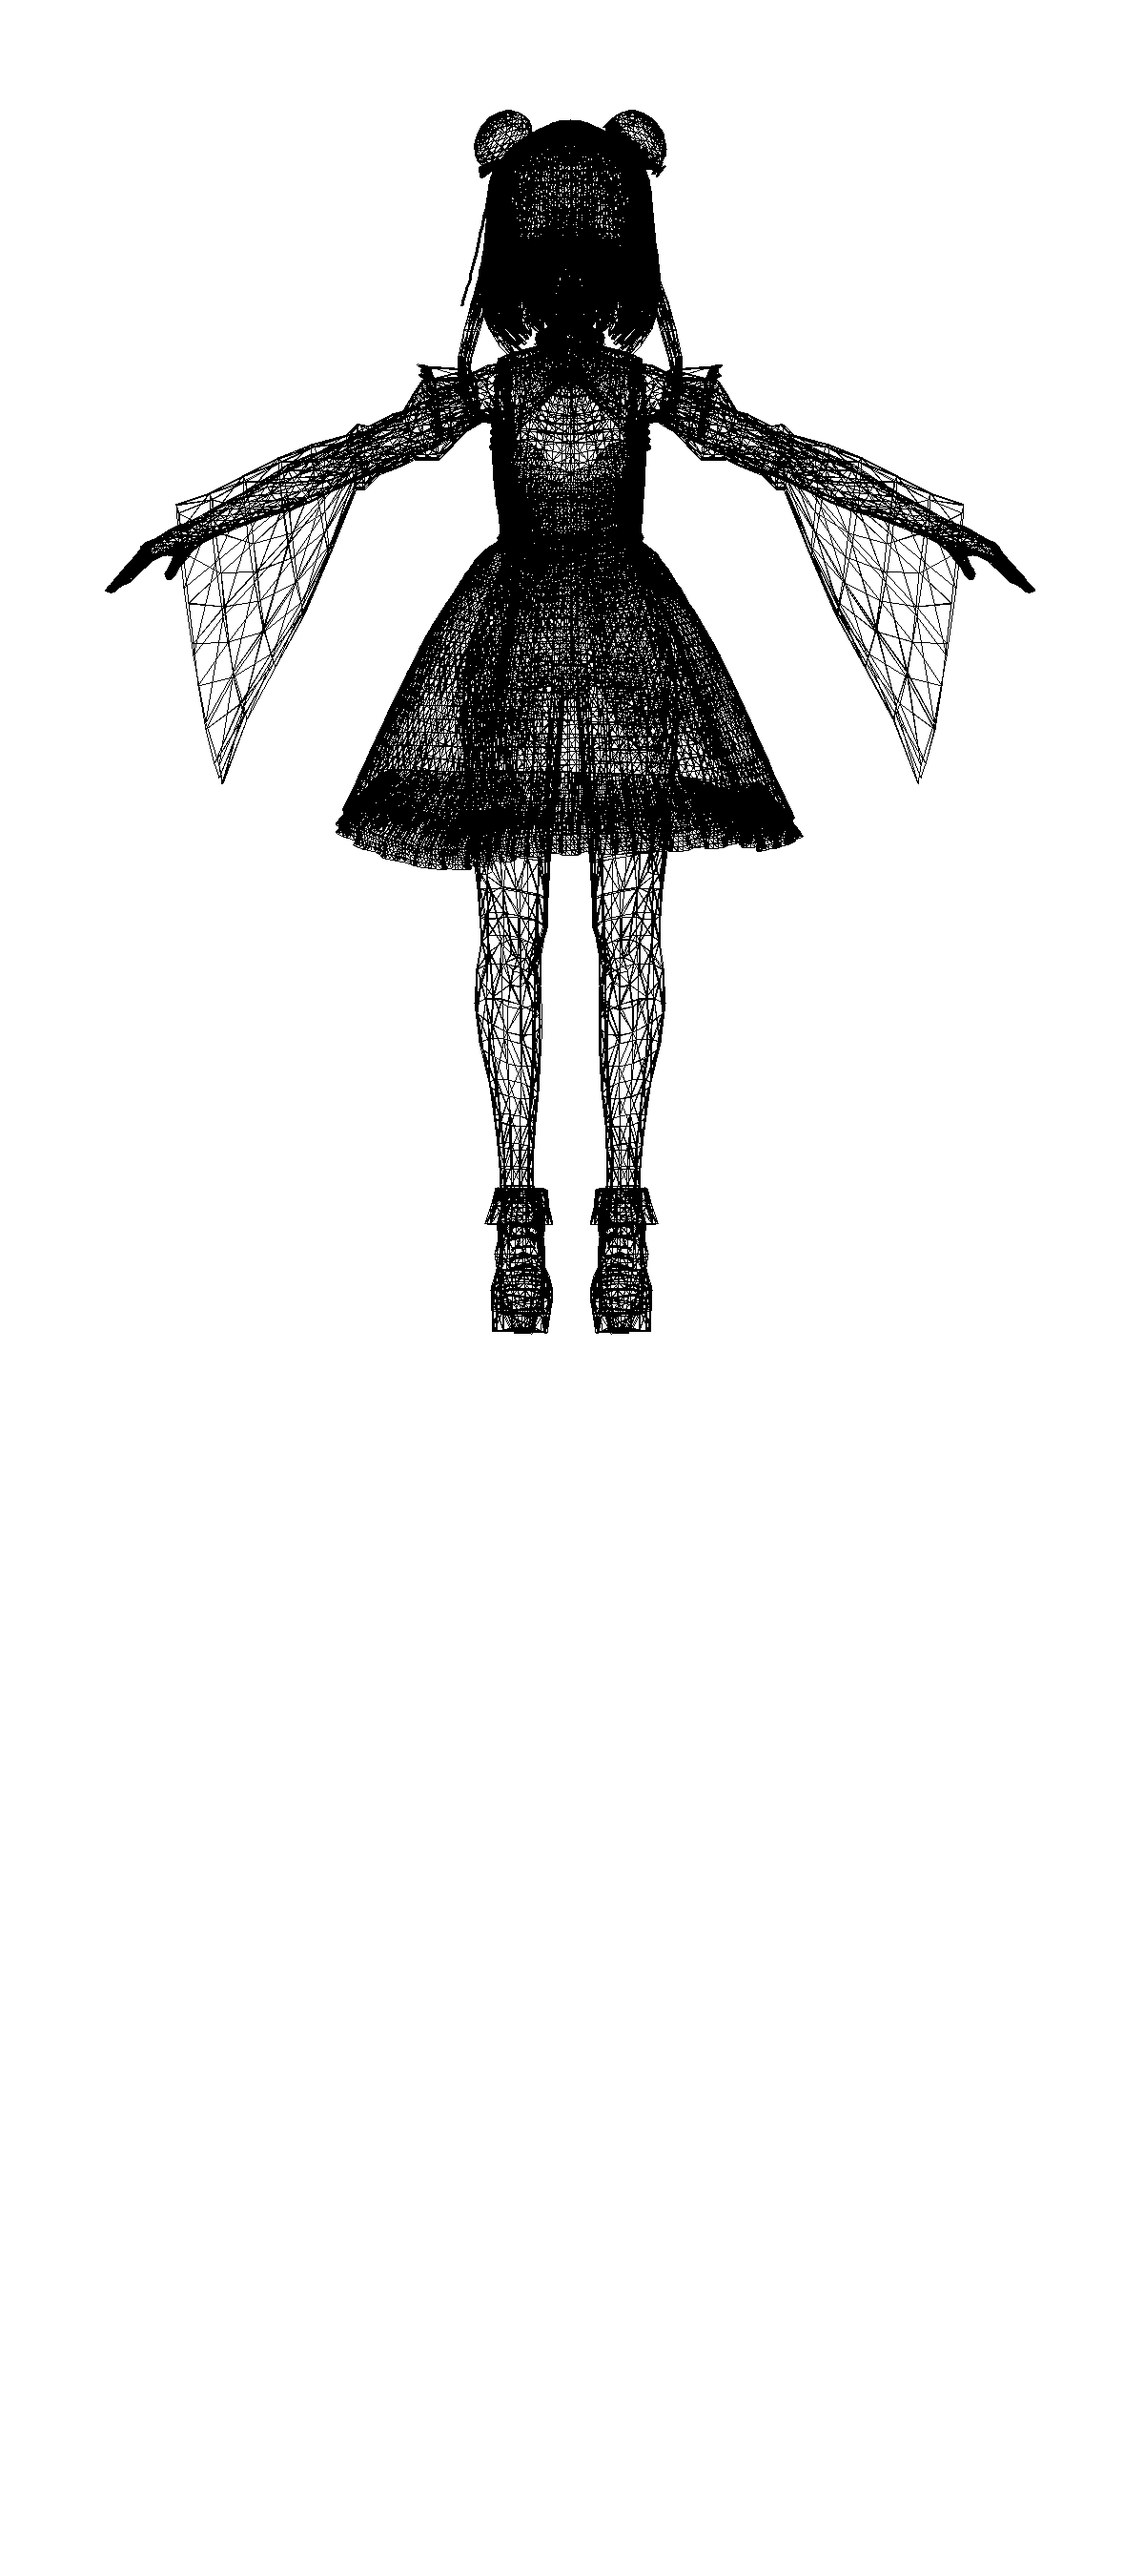
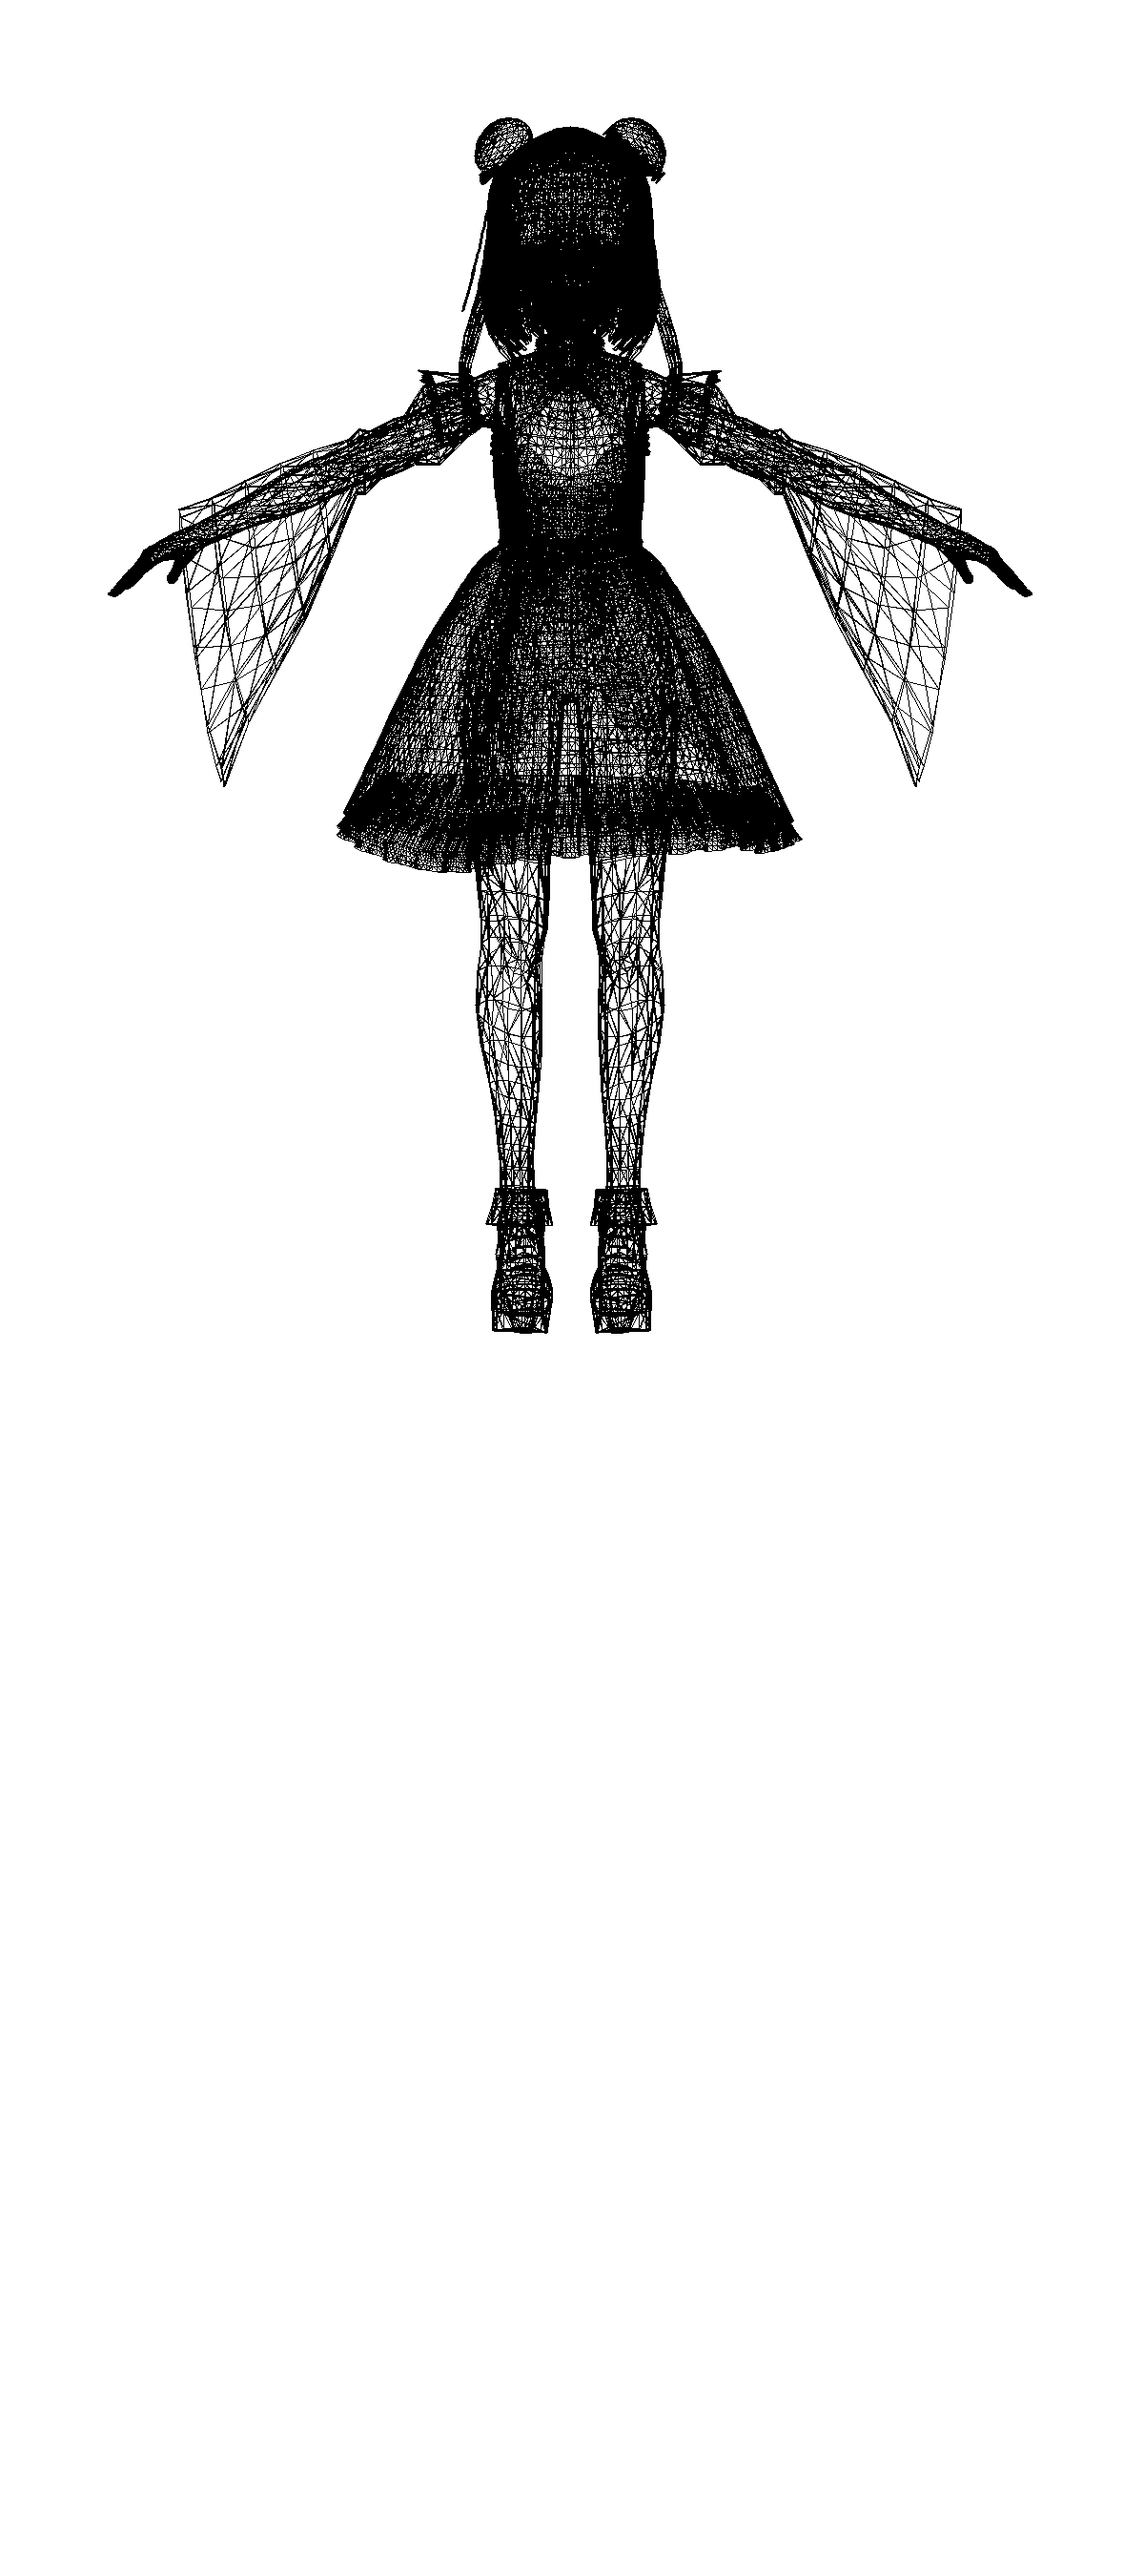
Use the Nix environment

diff --git a/src/utils.py b/src/utils.py
@@ -207,6 +207,9 @@ def DrawShadedTriangle (P0:Point, P1:Point, P2:Point, canva:Canva, color):
                 int(color[2] * b)
             )
             PutPixel(x, y, canva, shaded_color)
+            # canva.array[canva_height - y][x][0] = shaded_color[0]
+            # canva.array[canva_height - y][x][1] = shaded_color[1]
+            # canva.array[canva_height - y][x][2] = shaded_color[2]
 
 def ProjectToCanvas(P:Point, canva:Canva):
     x = P.x * canva.d / P.z
@@ -232,9 +235,9 @@ def DrawWireframeTriangle(
     p1 = copy.deepcopy(P1)
     p2 = copy.deepcopy(P2)
     
-    p0 = shift_location(p0, (0, 0, 5050), 1)
-    p1 = shift_location(p1, (0, 0, 5050), 1)
-    p2 = shift_location(p2, (0, 0, 5050), 1)
+    p0 = shift_location(p0, (0, 0, 5080), 1)
+    p1 = shift_location(p1, (0, 0, 5080), 1)
+    p2 = shift_location(p2, (0, 0, 5080), 1)
     
     p0 = ProjectToCanvas(p0, canva)
     p1 = ProjectToCanvas(p1, canva)
@@ -251,11 +254,16 @@ def load_objs(path:str):
     
     points = []
     tris = []
+    obj_num = 0
     for line in lines:
+        # if(line[0] == 'o'):
+        #     if(obj_num == limit):
+        #         break
+        #     else:
+        #         obj_num += 1
         if(line[0] == "v" and line[1] == ' '):
             splited = line.split(' ')
-            if '' in splited:
-                splited.remove('')
+            # splited.remove('')
             point = Point(float(splited[1]), float(splited[2]), float(splited[3]), 1.0)
             points.append(point)
         elif(line[0] == 'f'):
@@ -266,6 +274,8 @@ def load_objs(path:str):
                 points[int(splited[2].split('/')[0]) - 1], 
                 points[int(splited[3].split('/')[0]) - 1])
             tris.append(tri)
+    # for p in points:
+    #     print(p)
     print(f"Number of triangles: {len(tris)}")
     obj = ThreeDimensionObject(tris)
     return obj

diff --git a/src/main.py b/src/main.py
@@ -1,13 +1,15 @@
 import numpy as np
 from utils import *
 from DataStructure import *
-from vedo import *
+# from vedo import *
 from PIL import Image
 import matplotlib.pyplot as plt
 from tqdm import tqdm
 
 
 def main():
+    obj_file = "./models/Rushia.obj"
+
     canva_height_px = 2700
     canva_width_px = 1200
 
@@ -32,7 +34,7 @@ def main():
     #     (0xFF, 0x8E, 0xFF))
 
     
-    objects = load_objs("./models/Rushia.obj")
+    objects = load_objs(obj_file)
     # with open("./models/Rushia.obj") as iif:
     #     lines = iif.readlines()
     
@@ -53,7 +55,7 @@ def main():
 
     # objects = [objects[0][1]]
 # 
-    for t in tqdm(objects.triangles):
+    for t in tqdm(objects.triangles, ncols=80):
         DrawWireframeTriangle(
             t.points[0],
             t.points[1],
@@ -63,8 +65,8 @@ def main():
 
     img = Image.fromarray(picture.array, mode="RGB")
     img.save("./images/result.png")
-    mesh = Mesh("./models/Rushia.obj")
-    mesh.show()
+    # mesh = Mesh("./models/Anyaoutline.obj")
+    # mesh.show()
 
 if __name__ == "__main__":
     main()

diff --git a/README.md b/README.md
@@ -1,1 +1,16 @@
 # Graphic
+
+## Enter develop environment
+```bash
+nix develop
+```
+
+### Execute python
+```bash
+make
+```
+
+### Clean generated files
+```bash
+make clean
+```
